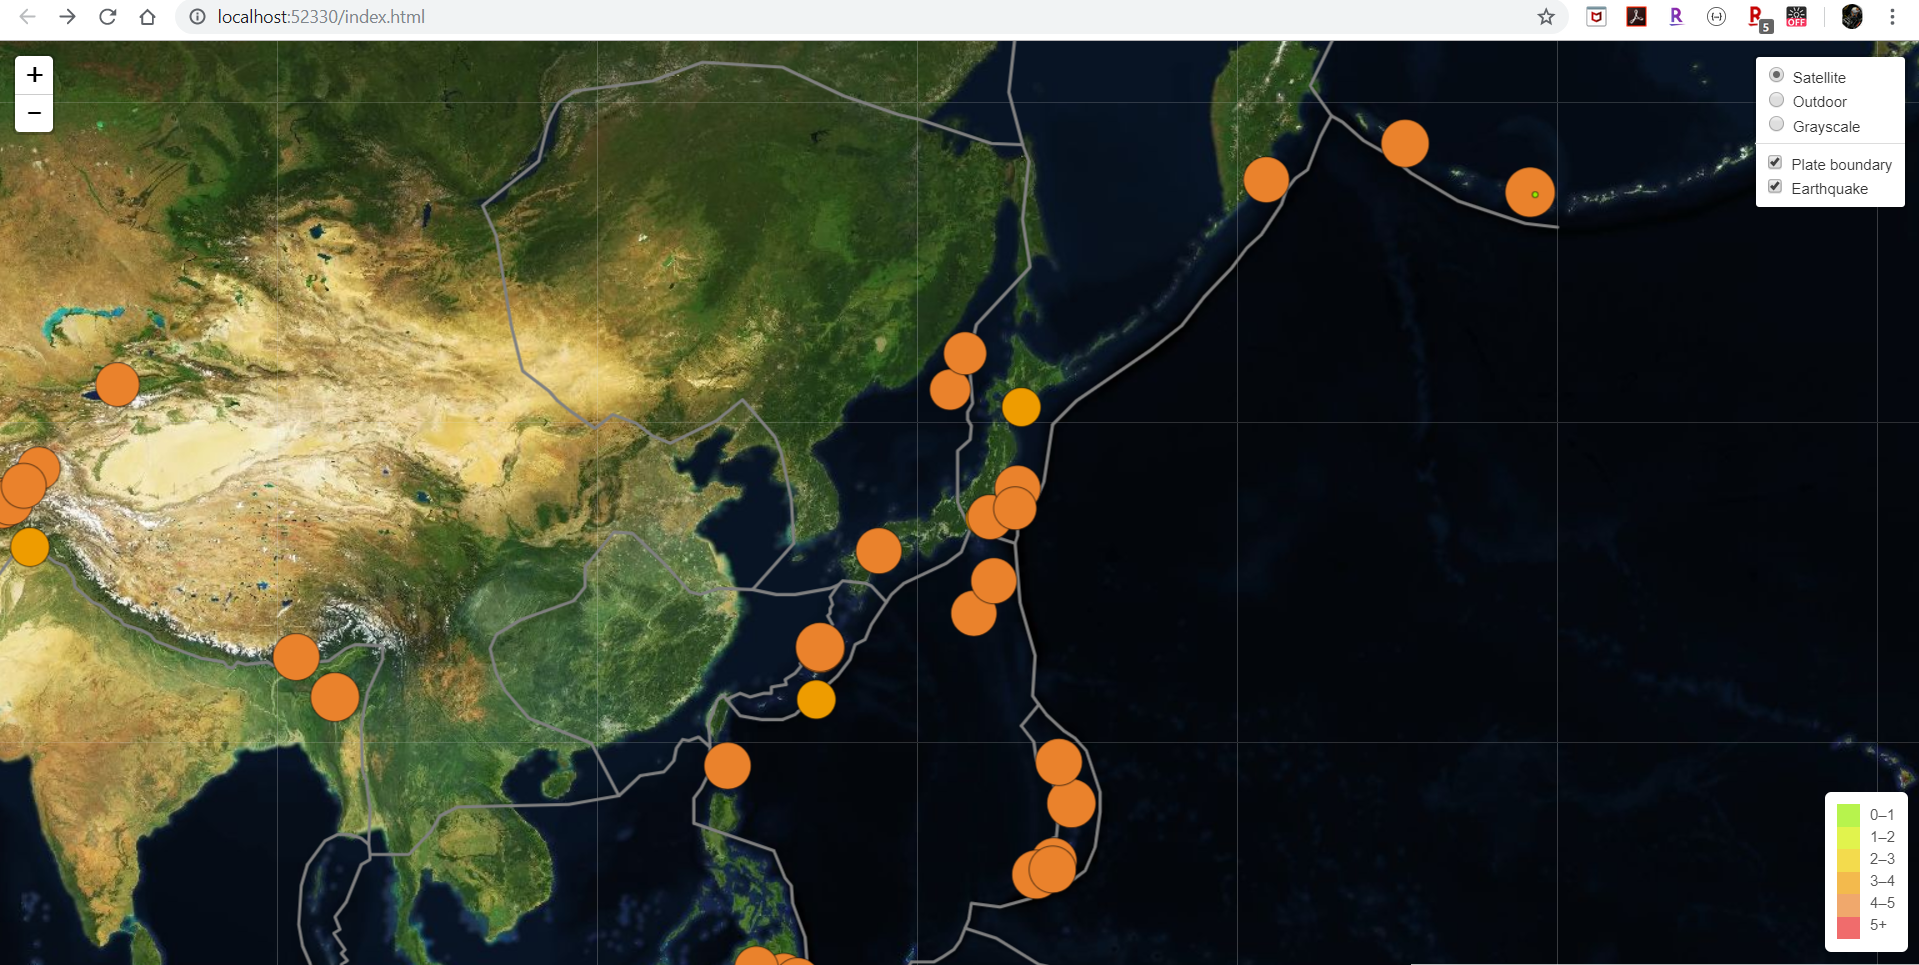
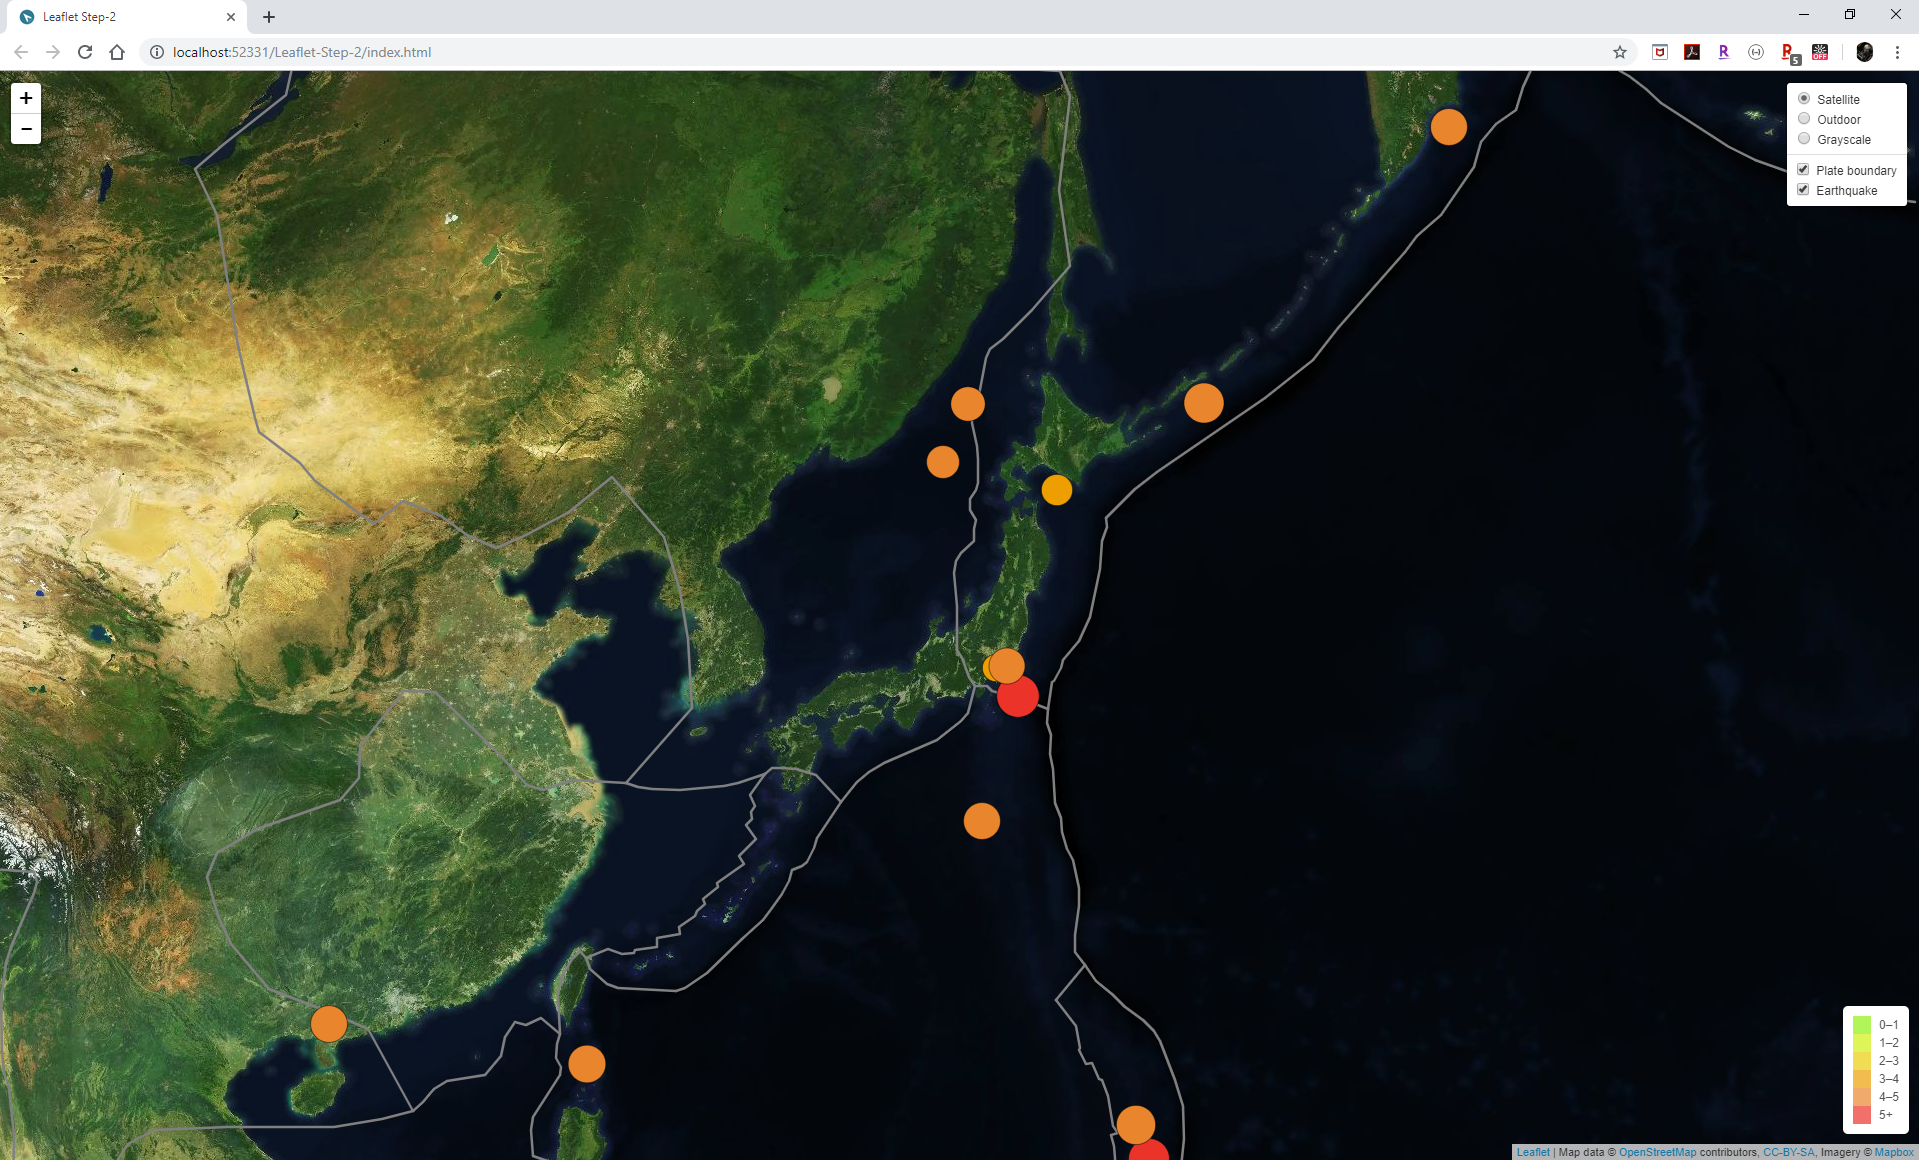
update readme

diff --git a/Leaflet-Step-2/static/js/logic.js b/Leaflet-Step-2/static/js/logic.js
@@ -1,10 +1,10 @@
-var coord_opt = "US"; // "US", "JP", "world"
+var coord_opt = "JP"; // "US", "JP", "world"
 
 let US_coord = [40, -100];
 let US_zoom = 3;
 
-let JP_coord = [36, 138];
-let JP_zoom = 4;
+let JP_coord = [37.5, 138];
+let JP_zoom = 5;
 
 let world_coord = [0, 0];
 let world_zoom = 2;

diff --git a/Leaflet-Step-1/static/js/logic.js b/Leaflet-Step-1/static/js/logic.js
@@ -1,7 +1,7 @@
 // Creating map object
 var map = L.map("map", {
     center: [0, 0],
-    zoom: 2
+    zoom: 3
 });
 
 // Adding tile layer

diff --git a/README.md b/README.md
@@ -9,6 +9,9 @@ Data are provided by [United States Geological Survey](https://www.usgs.gov/) (U
 
 ## Methodology
 Data are vizualized using [Leaflet](https://leafletjs.com/examples.html).<br>
+![step1](Images/Step1.PNG)
+
+
 Main webpage is built in [index.html](../Leaflet-Step-2/index.html). The "logic" part is built in [JavaScript](../Leaflet-Step-2/static/js/logic.js).<br>
 First, we built a map with only the earthquakes data and the legend.<br>
 Then, we built the final version with the "satellite", "GrayScale" and "Outdoors" views. We added "Plate Boundary" option to visuzalize that earthquakes are mainly occuring at the plate limits.
@@ -17,7 +20,13 @@ Plate data are provided by https://github.com/fraxen/tectonicplates.
 ## Addional options
 I added option in the [logic.js](../Leaflet-Step-2/static/js/logic.js) to get:
 - a worldwide map
+![step1](Images/Final_page_world_Sat.PNG)
+
 - a map centered on US
+![step1](Images/Final_page_world_Sat_US.PNG)
+
 - a map centered on Japan
+![step1](Images/Final_page_world_Sat_JP.PNG)
+
 
 The option can be changed by setting the ```var coord_opt ``` to "US", "JP", "world"
